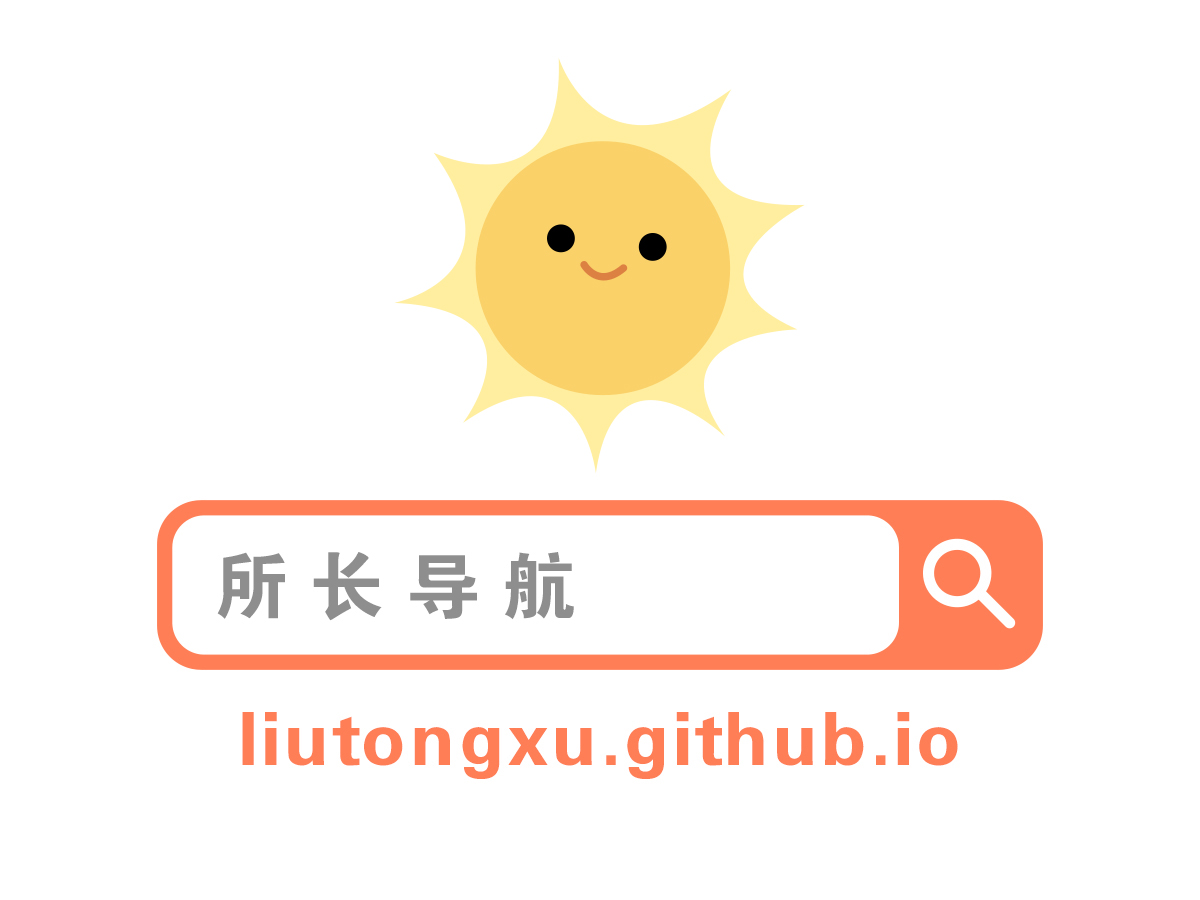
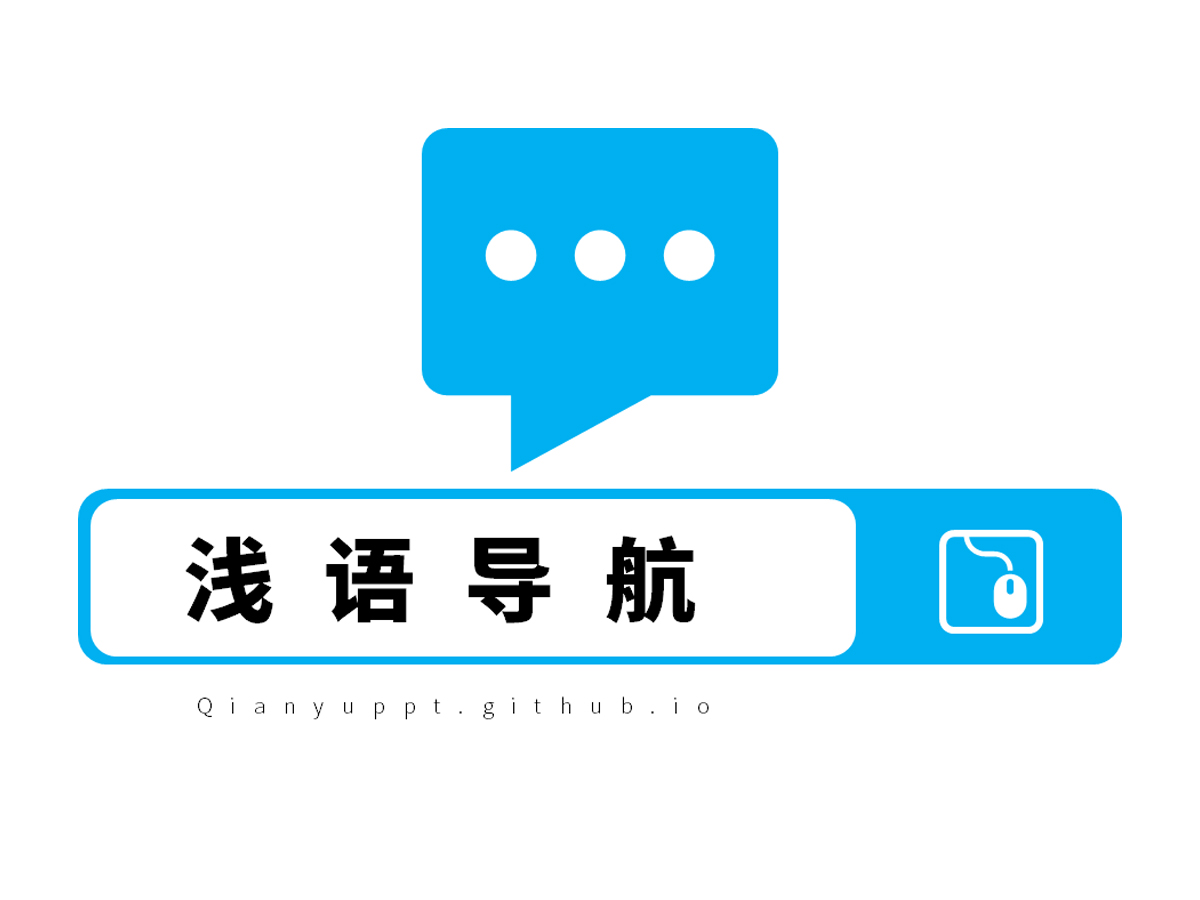
qianyu

Changed region(s): [[0.0617, 0.0622, 0.9558, 0.7467], [0.185, 0.7778, 0.4933, 0.8711], [0.5242, 0.7778, 0.8017, 0.8711]]

diff --git a/index.html b/index.html
@@ -6,19 +6,19 @@
     <meta http-equiv="X-UA-Compatible" content="IE=edge, chrome=1">
     <meta name="viewport"
         content="width=device-width, initial-scale=1.0, minimum-scale=1.0, maximum-scale=1.0, user-scalable=no">
-    <title>所长导航-有范的导航网站</title>
+    <title>浅语导航-一个简单的导航网站</title>
     <meta name="theme-color" content="#f9f9f9">
     <meta name="keywords" content="设计导航,网址导航,资源导航,创意导航,设计素材大全,软件导航">
-    <meta name="description" content="所长导航 - 精选每个链接">
+    <meta name="description" content="浅语导航 - 精选每个链接">
     <meta name="baidu-site-verification" content="code-ERzo5lqNbW" />
     <meta name="sogou_site_verification" content="c5kms0qkyL" />
     <meta name="360-site-verification" content="fcc13eac55051e381be8a06453359bc1" />
     <meta property="og:type" content="website">
     <meta property="og:url" content="https://liutongxu.github.io">
-    <meta property="og:title" content="所长导航-有范的导航网站">
-    <meta property="og:description" content="所长导航 - 不求最全，但求好用">
-    <meta property="og:image" content="https://liutongxu.github.io/wp-content/screenshot.jpg">
-    <meta property="og:site_name" content="所长导航">
+    <meta property="og:title" content="浅语导航-一个简单的导航网站">
+    <meta property="og:description" content="浅语导航 - 一个简单的导航网站">
+    <meta property="og:image" content="https://qianyuppt.github.io/wp-content/screenshot.jpg">
+    <meta property="og:site_name" content="浅语导航">
     <link rel="icon" href="./ico.ico">
     <link rel='stylesheet' id='wp-block-library-css' href='wp-includes/css/dist/block-library/style.min-5.6.2.css'
         type='text/css' media='all'>
@@ -186,7 +186,7 @@
                 }
             }
         </style>
-        <div class="loader">一个有范的导航</div>
+        <div class="loader">一个简单的导航</div>
     </div>
     <div class="page-container">
 
@@ -198,15 +198,15 @@
                     <div class="logo overflow-hidden">
                         <a href="" class="logo-expanded">
                             <img src="wp-content/uploads/2020/01/ywdh-logo-1.png" height="40" class="logo-light"
-                                alt="所长导航">
+                                alt="浅语导航">
                             <img src="wp-content/uploads/2020/01/ywdh-logo.png" height="40" class="logo-dark d-none"
-                                alt="所长导航">
+                                alt="浅语导航">
                         </a>
                         <a href="" class="logo-collapsed">
                             <img src="wp-content/uploads/2020/01/ywdh-logo-bark-ico.png" height="40" class="logo-light"
-                                alt="所长导航">
+                                alt="浅语导航">
                             <img src="wp-content/uploads/2020/01/ywdh-logo-ico.png" height="40" class="logo-dark d-none"
-                                alt="所长导航">
+                                alt="浅语导航">
                         </a>
                     </div>
                     <!-- logo end -->
@@ -218,7 +218,7 @@
                                 <li class="sidebar-item top-menu">
                                     <a href="javascript:;" class="smooth change-href">
                                         <i class="iconfont icon-zhuye1 icon-fw icon-lg mr-2"></i>
-                                        <span>所长导航</span>
+                                        <span>浅语导航</span>
                                         <i class="iconfont icon-arrow-r-m sidebar-more text-sm"></i>
                                     </a>
                                     <ul>
@@ -242,7 +242,7 @@
                                             <ul class="sub-menu">
                                                 <li id="menu-item-264"
                                                     class="menu-item menu-item-type-post_type menu-item-object-page menu-item-264">
-                                                    <a href="https://weibo.com/hiliutongxu" target="_blank">所长微博</a>
+                                                    <a href="https://weibo.com/u/2964335911" target="_blank">浅语微博</a>
                                                 </li>
                                                 <li id="menu-item-285"
                                                     class="menu-item menu-item-type-custom menu-item-object-custom menu-item-285">
@@ -352,7 +352,7 @@
 
                             <li id="menu-item-213"
                             class="menu-item menu-item-type-custom menu-item-object-custom menu-item-213 sidebar-item">
-                            <a target="_blank" rel="noopener" href="http://sighttp.qq.com/authd?IDKEY=7a6ef4c847ab2e9643c7b9e6fad646a17e3198a37984251d">
+                            <a target="_blank" rel="noopener" href="https://jq.qq.com/?_wv=1027&k=Fx500yYW">
                                 <i class="iconfont icon-QQ icon-fw icon-lg mr-2"></i>
                                 <span>联系所长</span></a>
                             </li>
@@ -360,7 +360,7 @@
 
                             <li id="menu-item-237"
                                 class="menu-item menu-item-type-post_type menu-item-object-page menu-item-237 sidebar-item">
-                                <a href="https://mail.qq.com/cgi-bin/qm_share?t=qm_mailme&email=hiliutongxu@qq.com"
+                                <a href="https://jq.qq.com/?_wv=1027&k=Fx500yYW"
                                     target="_blank">
                                     <i class="iconfont icon-tijiao icon-fw icon-lg mr-2"></i>
                                     <span>网站提交</span></a>
@@ -386,11 +386,11 @@
                     <div class="navbar navbar-expand-md">
                         <div class="container-fluid p-0">
 
-                            <a href="" class="navbar-brand d-md-none" title="所长导航">
+                            <a href="" class="navbar-brand d-md-none" title="浅语导航">
                                 <img src="wp-content/uploads/2020/01/ywdh-logo-bark-ico.png" class="logo-light"
-                                    alt="所长导航">
+                                    alt="浅语导航">
                                 <img src="wp-content/uploads/2020/01/ywdh-logo-ico.png" class="logo-dark d-none"
-                                    alt="所长导航">
+                                    alt="浅语导航">
                             </a>
 
                             <div class="collapse navbar-collapse order-2 order-md-1">
@@ -433,7 +433,7 @@
                                         <ul class="sub-menu">
                                             <li id="menu-item-264"
                                                 class="menu-item menu-item-type-post_type menu-item-object-page menu-item-264">
-                                                <a href="https://weibo.com/hiliutongxu">所长微博</a>
+                                                <a href="https://weibo.com/u/2964335911">浅语微博</a>
                                             </li>
                                             <li id="menu-item-285"
                                                 class="menu-item menu-item-type-custom menu-item-object-custom menu-item-285">
